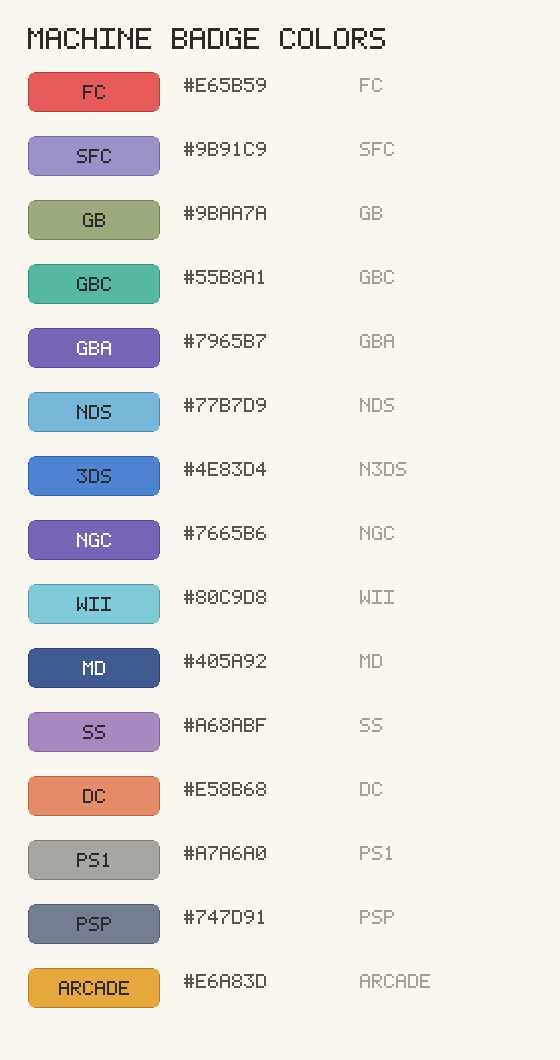
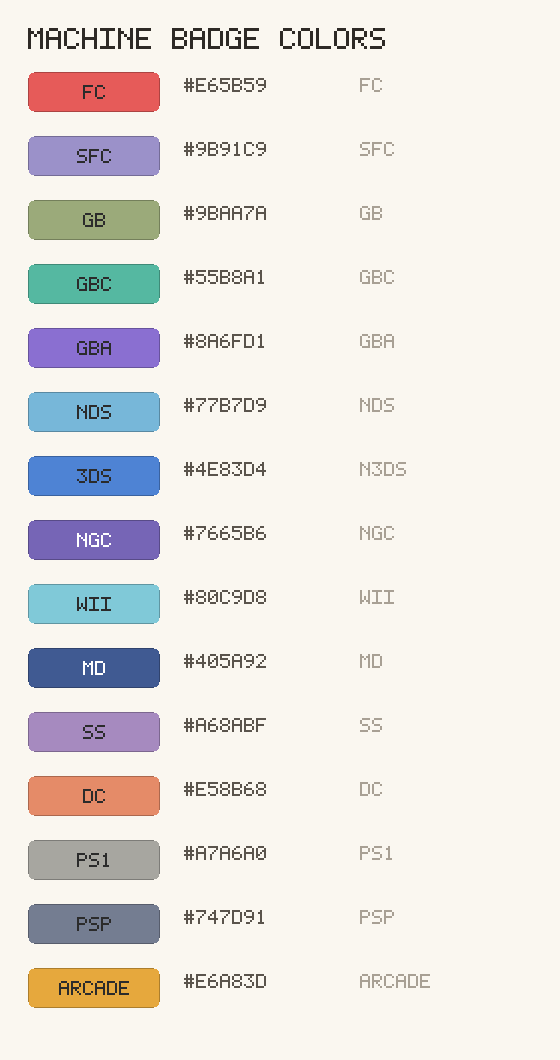
style(utils): GBA 掌机紫调亮，与 NGC 紫色区分

Changed region(s): [[0.0304, 0.3113, 0.3036, 0.3736], [0.4554, 0.3113, 0.4857, 0.3425]]

diff --git a/src/utils/JiaoZiPiMachine.h b/src/utils/JiaoZiPiMachine.h
@@ -82,7 +82,7 @@ constexpr Color MachineBadgeColor(Machine m) {
         case Machine::SFC:    return Rgba(0x9B91C9);  // 薰衣草紫
         case Machine::GB:     return Rgba(0x9BAA7A);  // 灰橄榄绿
         case Machine::GBC:    return Rgba(0x55B8A1);  // 透明青绿
-        case Machine::GBA:    return Rgba(0x7965B7);  // 掌机紫
+        case Machine::GBA:    return Rgba(0x8A6FD1);  // 掌机紫（比 NGC 更亮，避免两紫难分）
         case Machine::NDS:    return Rgba(0x77B7D9);  // 天空蓝
         case Machine::N3DS:   return Rgba(0x4E83D4);  // 亮钴蓝
         case Machine::NGC:    return Rgba(0x7665B6);  // 游戏机紫
